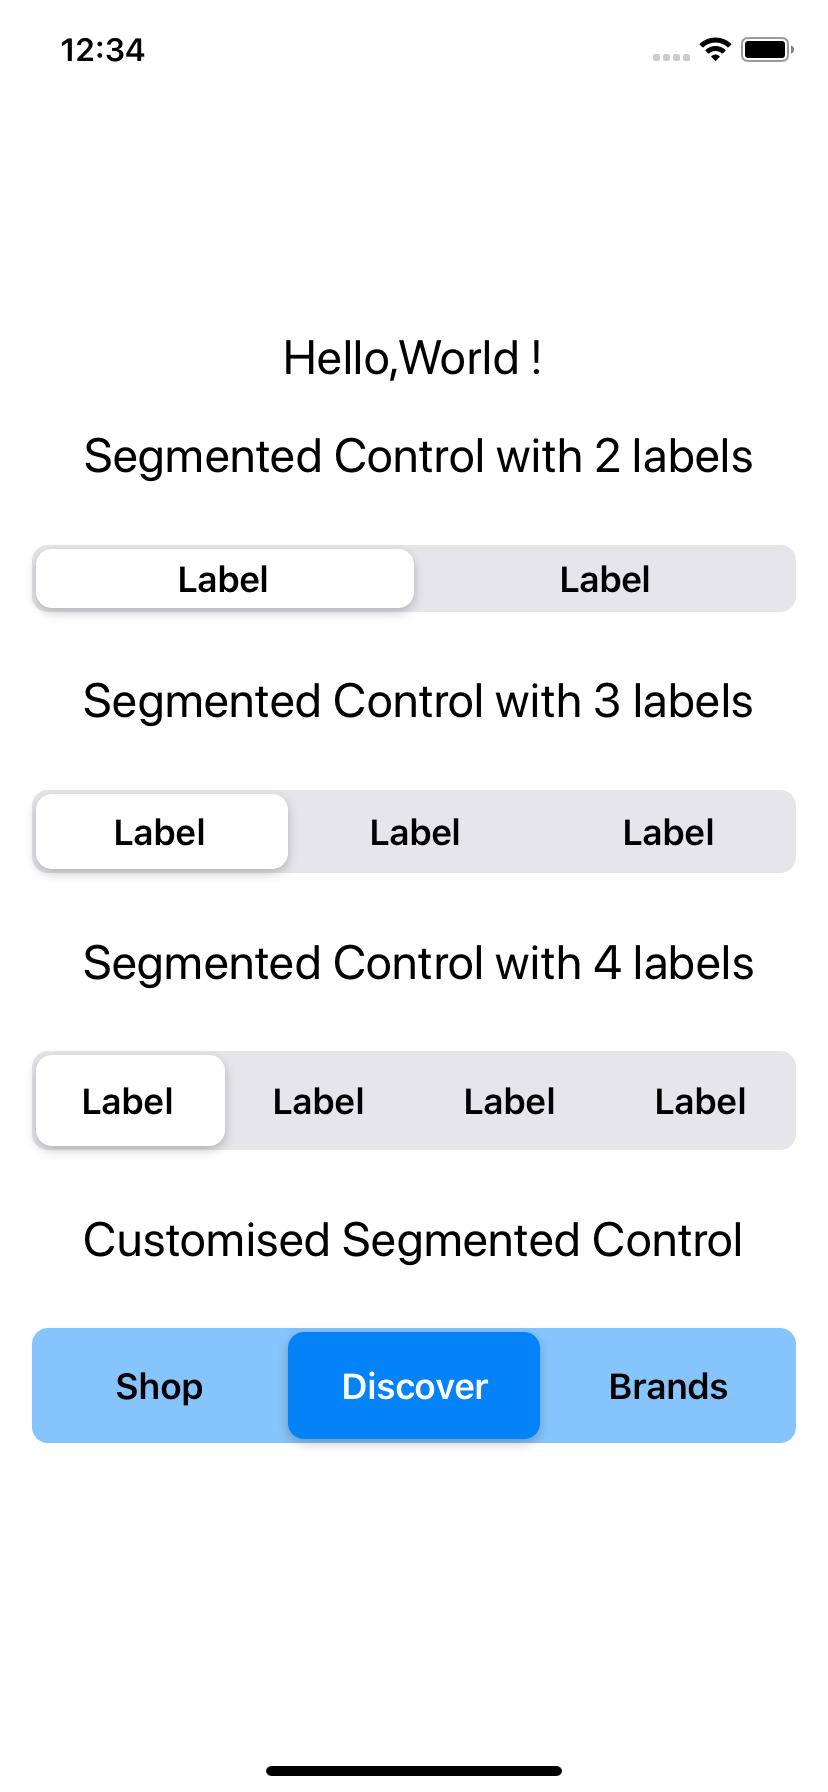
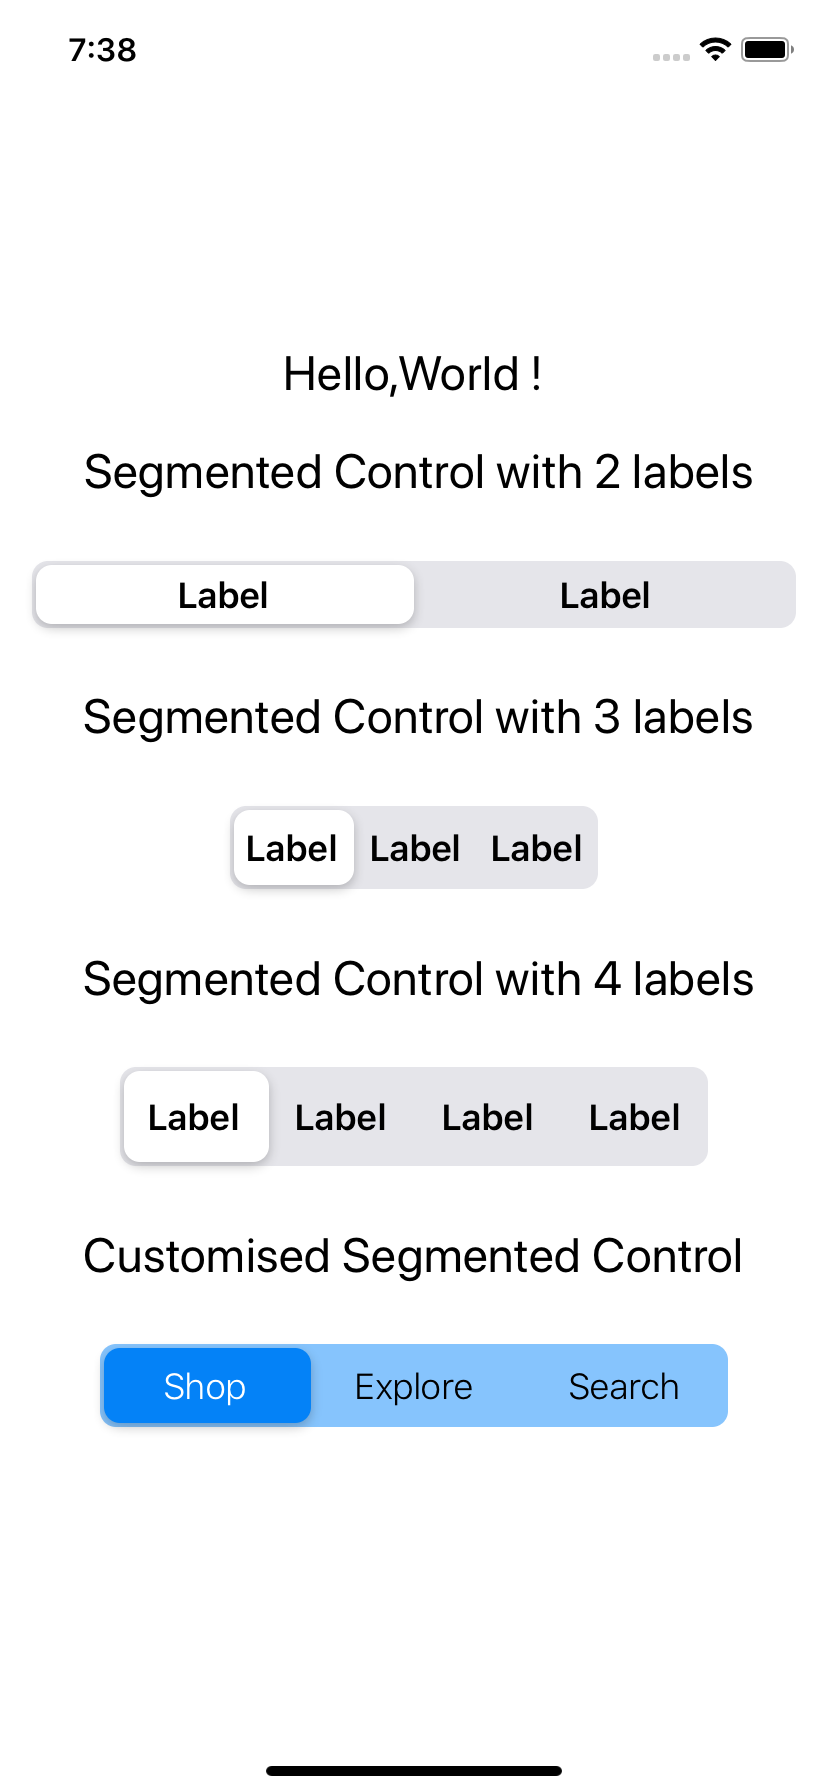
1. Customizable width for the segemented control 2. Cusomizable container styles 3. Customizable text styles 4. Added a dependency for the memoized callback

diff --git a/examples/RNSegmentedControl/src/components/segmentedControl/index.js b/examples/RNSegmentedControl/src/components/segmentedControl/index.js
@@ -1,6 +1,6 @@
 import PropTypes from 'prop-types';
 import React, { useEffect } from 'react';
-import { Animated, Dimensions, StyleSheet, Text, TouchableOpacity } from 'react-native';
+import { Animated, Dimensions, StyleSheet, Text, TouchableOpacity, ViewPropTypes } from 'react-native';
 
 
 const shadow = {
@@ -15,10 +15,9 @@ const shadow = {
   elevation: 4,
 }
 
-// So that it stretches in landscape mode.
-const width = Dimensions.get('screen').width - 32;
 
 const SegmentedControl = (props) => {
+  const { width } = props;
   const translateValue = ((width - 4) / props?.tabs?.length);
   const [tabTranslate, setTabTranslate] = React.useState(new Animated.Value(0));
 
@@ -27,7 +26,7 @@ const SegmentedControl = (props) => {
     (index) => {
       props?.onChange(index);
     },
-    []
+    [props?.onChange]
   );
 
   useEffect(() => {
@@ -45,11 +44,15 @@ const SegmentedControl = (props) => {
     <Animated.View style={[
       styles.segmentedControlWrapper,
       {
+        width: width,
+      },
+      {
         backgroundColor: props?.segmentedControlBackgroundColor
       },
       {
         paddingVertical: props?.paddingVertical,
-      }
+      },
+      props?.containerStyle
     ]}>
       <Animated.View
         style={[{
@@ -81,12 +84,17 @@ const SegmentedControl = (props) => {
               style={[styles.textWrapper]}
               onPress={() => memoizedTabPressCallback(index)}
               activeOpacity={0.7} >
-              <Text numberOfLines={1} style={[styles.textStyles, { color: props?.textColor }, isCurrentIndex && { color: props?.activeTextColor }]}>{tab}</Text>
+              <Text numberOfLines={1} style={[
+                styles.textStyles,
+                { color: props?.textColor },
+                isCurrentIndex && { color: props?.activeTextColor },
+                props?.textStyle
+              ]}>{tab}</Text>
             </TouchableOpacity>
           )
         })
       }
-    </Animated.View >
+    </Animated.View>
   )
 }
 
@@ -97,8 +105,6 @@ const styles = StyleSheet.create({
     flexDirection: 'row',
     alignItems: 'center',
     borderRadius: 8,
-    width: width,
-    marginVertical: 20
   },
   textWrapper: {
     flex: 1,
@@ -112,6 +118,7 @@ const styles = StyleSheet.create({
   }
 })
 
+
 SegmentedControl.propTypes = {
   tabs: PropTypes.arrayOf(PropTypes.string).isRequired,
   onChange: PropTypes.func.isRequired,
@@ -120,7 +127,10 @@ SegmentedControl.propTypes = {
   activeSegmentBackgroundColor: PropTypes.string,
   textColor: PropTypes.string,
   activeTextColor: PropTypes.string,
-  paddingVertical: PropTypes.number
+  paddingVertical: PropTypes.number,
+  width: PropTypes.number,
+  containerStyle: ViewPropTypes.style,
+  textStyle: PropTypes.object
 }
 
 
@@ -132,7 +142,10 @@ SegmentedControl.defaultProps = {
   activeSegmentBackgroundColor: 'white',
   textColor: 'black',
   activeTextColor: 'black',
-  paddingVertical: 12
+  paddingVertical: 12,
+  width: Dimensions.get('screen').width - 32,
+  containerStyle: {},
+  textStyle: {}
 }
 
 export default SegmentedControl;

diff --git a/examples/RNSegmentedControl/src/appRoot/index.js b/examples/RNSegmentedControl/src/appRoot/index.js
@@ -1,6 +1,6 @@
 import React from 'react';
-import { StyleSheet, Text, View } from 'react-native';
-import SegmentedControl from 'rn-segmented-control';
+import { Dimensions, StyleSheet, Text, View } from 'react-native';
+import SegmentedControl from '../components/segmentedControl';
 
 const AppRoot = () => {
   const [tabIndex, setTabIndex] = React.useState(1);
@@ -10,36 +10,57 @@ const AppRoot = () => {
   return (
     <View style={styles.container}>
       <Text style={styles.textStyle}>Hello,World !</Text>
-      <Text style={styles.textStyle}> Segmented Control with 2 labels</Text>
+      <Text style={styles.textStyle}>Segmented Control with 2 labels</Text>
+      {/* Default Segmented Control */}
       <SegmentedControl
         tabs={['Label', 'Label']}
         onChange={() => { }}
         paddingVertical={6}
+        containerStyle={{
+          marginVertical: 20,
+        }}
       />
       <Text style={styles.textStyle}> Segmented Control with 3 labels</Text>
+      {/* Segmented Control with a custom width */}
       <SegmentedControl
         tabs={['Label', 'Label', 'Label']}
         onChange={() => { }}
         paddingVertical={10}
+        containerStyle={{
+          marginVertical: 20,
+        }}
+        width={Dimensions.get('screen').width - 230}
       />
       <Text style={styles.textStyle}> Segmented Control with 4 labels</Text>
       <SegmentedControl
         tabs={['Label', 'Label', 'Label', 'Label']}
         onChange={() => { }}
         paddingVertical={14}
+        width={Dimensions.get('screen').width - 120}
+        containerStyle={{
+          marginVertical: 20,
+        }}
       />
       <Text style={styles.textStyle}>Customised Segmented Control</Text>
+      {/* Segmented Control with a custom width, container style and font weight */}
       <SegmentedControl
-        tabs={['Shop', 'Discover', 'Brands']}
+        tabs={['Shop', 'Explore', 'Search']}
         currentIndex={tabIndex}
         onChange={handleTabsChange}
         segmentedControlBackgroundColor='#86c4fd'
         activeSegmentBackgroundColor='#0482f7'
         activeTextColor='white'
         textColor='black'
-        paddingVertical={18}
+        paddingVertical={10}
+        width={Dimensions.get('screen').width - 100}
+        containerStyle={{
+          marginVertical: 20,
+        }}
+        textStyle={{
+          fontWeight: '300',
+        }}
       />
-    </View>
+    </View >
   )
 }
 
